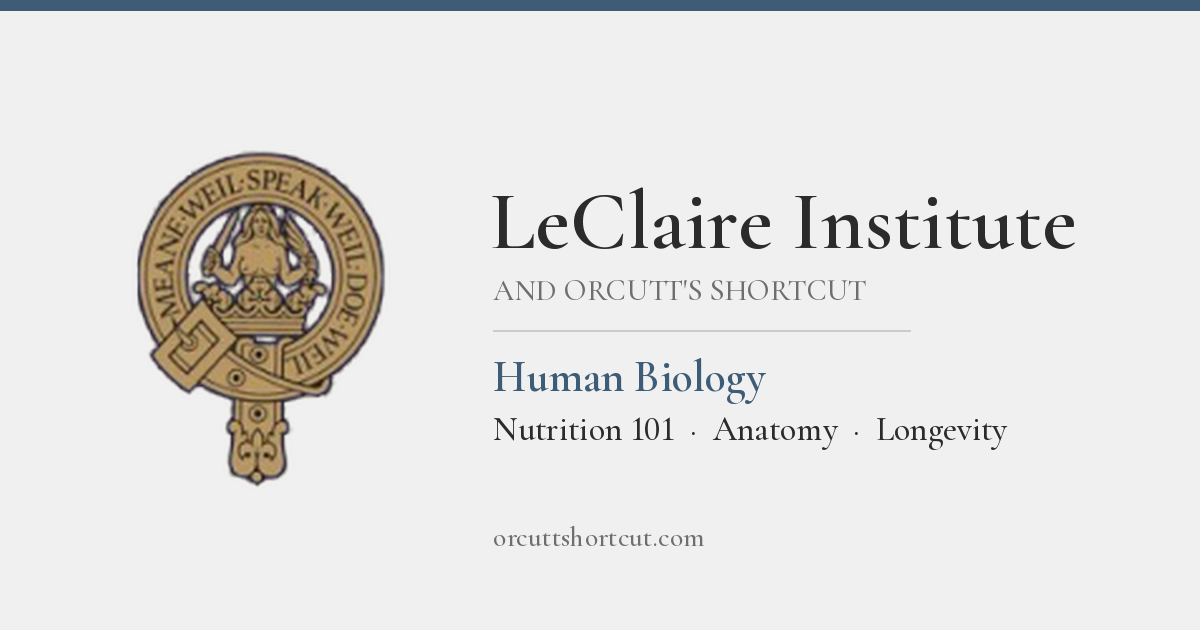
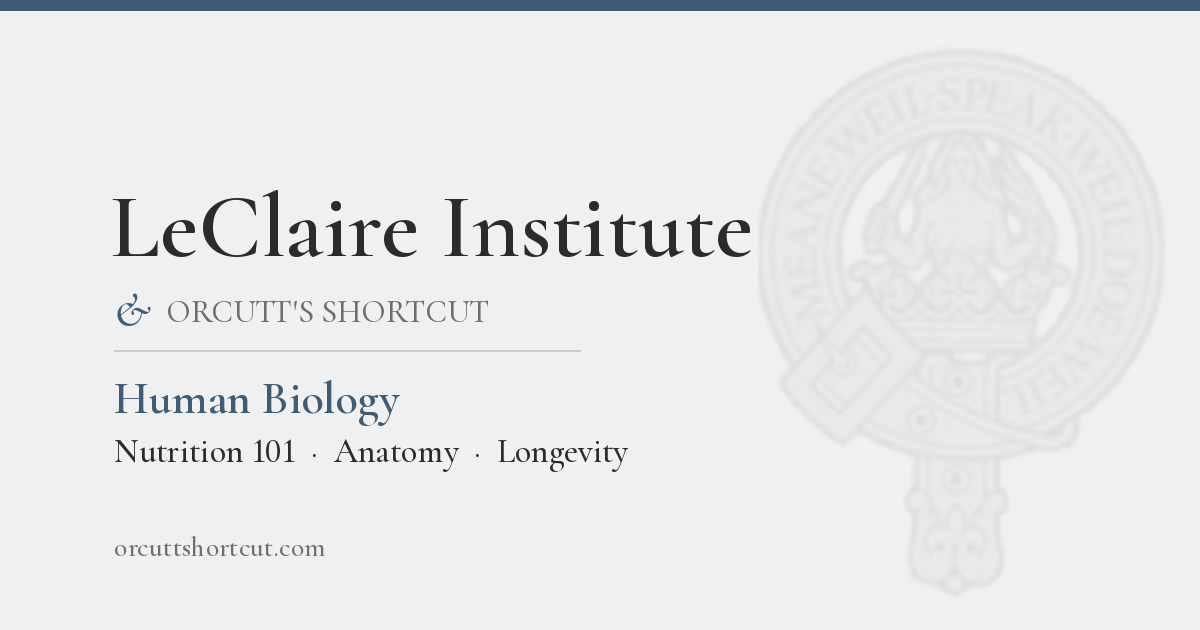
Tagline '& Orcutt's Shortcut' with classic ampersand; subtle crest watermark on share card

diff --git a/index.html b/index.html
@@ -1,4 +1,4 @@
-<!doctype html><html lang="en"><head><meta charset="utf-8"><link rel="icon" href="/favicon.ico" sizes="any"><link rel="icon" type="image/png" href="/favicon-32.png"><link rel="apple-touch-icon" href="/apple-touch-icon.png"><meta name="viewport" content="width=device-width,initial-scale=1"><title>LeClaire Institute · And Orcutt's Shortcut</title><meta name="description" content="Human Biology from the LeClaire Institute: Nutrition 101, Anatomy and Longevity, taught from molecules up."><meta property="og:type" content="website"><meta property="og:site_name" content="LeClaire Institute"><meta property="og:title" content="LeClaire Institute · And Orcutt&#x27;s Shortcut"><meta property="og:description" content="Human Biology from the LeClaire Institute: Nutrition 101, Anatomy and Longevity, taught from molecules up."><meta property="og:image" content="https://orcuttshortcut.com/og.png"><meta property="og:image:width" content="1200"><meta property="og:image:height" content="630"><meta property="og:image:alt" content="LeClaire Institute crest"><meta name="twitter:card" content="summary_large_image"><meta name="twitter:title" content="LeClaire Institute · And Orcutt&#x27;s Shortcut"><meta name="twitter:description" content="Human Biology from the LeClaire Institute: Nutrition 101, Anatomy and Longevity, taught from molecules up."><meta name="twitter:image" content="https://orcuttshortcut.com/og.png"><meta name="theme-color" content="#3E5C76"><style>:root{--hdr:#E4E4E4;--bg:#F0F0F0;--hair:#CBCBCB;--card:#F7F7F5;--text:#2B2B2B;--muted:#6E6E6E;--line:#D9D8D4;--chip:#ECEBE7;--acc:#3E5C76;--acc-soft:#3E5C7614;--mark:#E7DCC3;--vein:.045;--serif:"Cormorant Garamond","Cormorant",Garamond,"EB Garamond",Georgia,"Times New Roman",serif;--sans:ui-sans-serif,system-ui,-apple-system,"Segoe UI",Roboto,"Helvetica Neue",Arial,sans-serif}
+<!doctype html><html lang="en"><head><meta charset="utf-8"><link rel="icon" href="/favicon.ico" sizes="any"><link rel="icon" type="image/png" href="/favicon-32.png"><link rel="apple-touch-icon" href="/apple-touch-icon.png"><meta name="viewport" content="width=device-width,initial-scale=1"><title>LeClaire Institute & Orcutt's Shortcut</title><meta name="description" content="Human Biology from the LeClaire Institute: Nutrition 101, Anatomy and Longevity, taught from molecules up."><meta property="og:type" content="website"><meta property="og:site_name" content="LeClaire Institute"><meta property="og:title" content="LeClaire Institute &amp; Orcutt&#x27;s Shortcut"><meta property="og:description" content="Human Biology from the LeClaire Institute: Nutrition 101, Anatomy and Longevity, taught from molecules up."><meta property="og:image" content="https://orcuttshortcut.com/og.png"><meta property="og:image:width" content="1200"><meta property="og:image:height" content="630"><meta property="og:image:alt" content="LeClaire Institute crest"><meta name="twitter:card" content="summary_large_image"><meta name="twitter:title" content="LeClaire Institute &amp; Orcutt&#x27;s Shortcut"><meta name="twitter:description" content="Human Biology from the LeClaire Institute: Nutrition 101, Anatomy and Longevity, taught from molecules up."><meta name="twitter:image" content="https://orcuttshortcut.com/og.png"><meta name="theme-color" content="#3E5C76"><style>:root{--hdr:#E4E4E4;--bg:#F0F0F0;--hair:#CBCBCB;--card:#F7F7F5;--text:#2B2B2B;--muted:#6E6E6E;--line:#D9D8D4;--chip:#ECEBE7;--acc:#3E5C76;--acc-soft:#3E5C7614;--mark:#E7DCC3;--vein:.045;--serif:"Cormorant Garamond","Cormorant",Garamond,"EB Garamond",Georgia,"Times New Roman",serif;--sans:ui-sans-serif,system-ui,-apple-system,"Segoe UI",Roboto,"Helvetica Neue",Arial,sans-serif}
 [data-theme=dark]{--hdr:#262625;--bg:#1F1F1E;--hair:#3A3936;--card:#2A2A28;--text:#E8E6E1;--muted:#A19E97;--line:#3A3936;--chip:#32322F;--acc:#8FA9C2;--acc-soft:#8FA9C21c;--mark:#5A4F38;--vein:.04}
 *{box-sizing:border-box}html{scroll-behavior:smooth}body{margin:0;background:var(--bg);color:var(--text);font-family:var(--sans);font-size:16px;line-height:1.55;-webkit-font-smoothing:antialiased;transition:background .2s,color .2s}
 a{color:inherit}
@@ -235,5 +235,5 @@ svg.sgd{display:block;width:100%;height:auto;margin:0 auto}
 @media(max-width:600px){.fams .cend.co{left:auto!important;right:-4px}.fams .cend.co.u{transform:translate(0,-100%)!important}.fams .cend.co.d{transform:none!important}.fams .fimg{margin-left:22px}}
 details.bls{margin:8px 0 0}details.bls>summary{cursor:pointer;color:var(--acc);font-size:.95rem;list-style:none;padding:2px 0}details.bls>summary::-webkit-details-marker{display:none}details.bls>summary::before{content:"";display:inline-block;width:6px;height:6px;margin:0 9px 2px 1px;border-right:1.5px solid currentColor;border-bottom:1.5px solid currentColor;transform:rotate(-45deg);transition:transform .15s}details.bls[open]>summary::before{transform:rotate(45deg)}details.bls>summary:hover{text-decoration:underline}.blsub{list-style:none;margin:6px 0 0 14px;padding:0 0 0 12px;border-left:2px solid var(--line)}.blsub li{padding:8px 0 8px;border-bottom:1px solid var(--line)}.blsub li:last-child{border-bottom:0}.blsub .bln{font-size:1.02rem}.blsn{margin:4px 0 0 26px!important;font-size:.85rem;color:var(--muted)}@media(max-width:600px){.blsub{margin-left:4px;padding-left:10px}.blsn{margin-left:14px!important}}
 .f9intro{margin:0 0 14px;font-size:1rem;line-height:1.6;color:var(--text)}.f9intro b{font-family:var(--serif);font-weight:600}
-.ai{color:var(--acc);font-weight:600;letter-spacing:.01em}.brand{display:inline-block;margin-bottom:10px;font-family:var(--serif);font-size:1.25rem;font-weight:500;letter-spacing:.02em;text-decoration:none;color:var(--text)}.brand:hover{color:var(--text)}.brand:hover .ai{text-decoration:underline;text-underline-offset:3px}</style><style>.hero p.tagline{margin:4px 0 0;font-family:var(--serif);font-variant:small-caps;font-size:clamp(1.05rem,2.2vw,1.25rem);letter-spacing:.12em;color:var(--muted)}.course .mn{font-variant-numeric:lining-nums}.course h2 a{text-decoration:none}.course h2 a:hover{color:var(--acc)}.cdesc{margin:10px 0 0 44px;line-height:1.6}.cmeta{margin:8px 0 0 44px;font-size:.72rem;text-transform:uppercase;letter-spacing:.18em;color:var(--muted)}.cmods{list-style:none;margin:12px 0 0 44px;padding:0;display:flex;flex-wrap:wrap;gap:8px}.cmods li{border:1px solid var(--line);border-radius:4px;padding:4px 10px;font-size:.9rem;background:var(--bg)}.cmods li span{font-family:var(--serif);font-variant-numeric:lining-nums;color:var(--acc);margin-right:6px;font-size:1.05rem}.secl{font-family:var(--serif);font-weight:500;font-size:1.5rem;margin:36px 0 10px;padding-top:18px;border-top:1px solid var(--hair);color:var(--muted)}.major{margin:8px 0 0;background:var(--card);border:1px solid var(--line);border-top:3px solid var(--acc);border-radius:8px;padding:20px 22px 8px}.majh{display:flex;align-items:center;gap:12px;flex-wrap:wrap}.majt{font-family:var(--serif);font-weight:500;font-size:2rem;margin:0}.majtag{font-size:.66rem;text-transform:uppercase;letter-spacing:.2em;color:#fff;background:var(--acc);border-radius:3px;padding:3px 9px}.majsub{margin:6px 0 14px;font-size:.72rem;text-transform:uppercase;letter-spacing:.18em;color:var(--muted)}.majc{border-left:2px solid var(--line);padding-left:18px}@media(max-width:600px){.cdesc,.cmeta,.cmods{margin-left:0}.majc{padding-left:10px}}</style></head><body>
-<div class="hero"><div class="in"><button id="theme">Dark</button><nav class="crumbs">Home</nav><h1 class="site">LeCl<span class="ai">ai</span>re Institute</h1><p class="tagline">And Orcutt's Shortcut</p><p>Course catalog. Choose a course to start.</p></div></div><main class="mods"><section class="major" id="human-biology"><div class="majh"><span class="majtag">Major</span><h2 class="majt">Human Biology</h2></div><p class="majsub">Courses in this major</p><div class="majc"><section class="mod course" id="nutrition-101" style="--a:var(--acc)"><div class="mh"><span class="mn">101</span><span class="ico"></span><h2><a href="curriculum/">Nutrition 101</a></h2></div><p class="cdesc">What food is made of, down to molecules and elements: macronutrients, micronutrients and the non-nutrients in whole foods, a final review that reads real labels line by line, and the searchable Food Label Tree of over 1,000 label compounds.</p><p class="cmeta">5 modules · 16 lessons</p><ol class="cmods"><li><span>1</span>Macronutrients</li><li><span>2</span>Micronutrients</li><li><span>3</span>Non-Nutrients</li><li><span>4</span>Final Review</li><li><span>5</span>Food Label Tree</li></ol><a class="les" href="curriculum/">Open the course <span>Nutrition 101 →</span></a></section><section class="mod course" id="anatomy" style="--a:var(--acc)"><div class="mh"><span class="mn">101</span><span class="ico"></span><h2><a href="anatomy/">Anatomy</a></h2></div><p class="cdesc">The human body as a marble statue you can peel back layer by layer: skin, muscles, bones, nerves, organs and circulation. Tap any part to zoom in, then follow each nutrient from your plate to where it is used or stored.</p><p class="cmeta">2 modules · 9 lessons</p><ol class="cmods"><li><span>1</span>The Human Body</li><li><span>2</span>Joints</li></ol><a class="les" href="anatomy/">Open the course <span>Anatomy →</span></a></section><section class="mod course" id="longevity" style="--a:var(--acc)"><div class="mh"><span class="mn">101</span><span class="ico"></span><h2><a href="longevity/">Longevity</a></h2></div><p class="cdesc">How long populations live, and what a low average did and did not mean. Module 1 follows life expectancy at birth in England and the world from the sixteenth century to today, then bridges to the aging papers in the reading room. Module 2 is the mutation theory of aging. Module 3 is telomeres and replicative senescence. Module 4 is free radicals and mitochondria. The course page lists the later theory modules, which are not written yet.</p><p class="cmeta">9 modules · 4 lessons</p><ol class="cmods"><li><span>1</span>Five Hundred Years</li><li><span>2</span>Mutation Theory</li><li><span>3</span>Telomeres</li><li><span>4</span>Free Radicals</li><li><span>5</span>Epigenetic Information</li><li><span>6</span>Evolutionary Trade-offs</li><li><span>7</span>Hyperfunction</li><li><span>8</span>Inflammaging</li><li><span>9</span>Proteostasis</li></ol><a class="les" href="longevity/">Open the course <span>Longevity →</span></a></section></div></section></main><script>const setT=t=>{document.documentElement.dataset.theme=t;theme.textContent=t=='dark'?'Light':'Dark'};let st=null;try{st=localStorage.getItem('theme')}catch(e){}setT(st||(matchMedia('(prefers-color-scheme: dark)').matches?'dark':'light'));theme.onclick=()=>{const t=document.documentElement.dataset.theme=='dark'?'light':'dark';setT(t);try{localStorage.setItem('theme',t)}catch(e){}};</script><script>(function(){var h=location.hash.slice(1);try{h=decodeURIComponent(h)}catch(e){}if(h==="literature"||h==="reading"){location.replace("longevity/#literature");return;}if((h&&!document.getElementById(h))||location.search)location.replace("curriculum/food-label-tree.html"+location.search+location.hash)})()</script></body></html>
+.ai{color:var(--acc);font-weight:600;letter-spacing:.01em}.brand{display:inline-block;margin-bottom:10px;font-family:var(--serif);font-size:1.25rem;font-weight:500;letter-spacing:.02em;text-decoration:none;color:var(--text)}.brand:hover{color:var(--text)}.brand:hover .ai{text-decoration:underline;text-underline-offset:3px}</style><style>.hero p.tagline .amp{font-family:"Cormorant Garamond",Garamond,"EB Garamond",Baskerville,serif;font-style:italic;font-variant:normal;font-size:1.35em;letter-spacing:0;margin-right:.18em;color:var(--acc)}.hero p.tagline{margin:4px 0 0;font-family:var(--serif);font-variant:small-caps;font-size:clamp(1.05rem,2.2vw,1.25rem);letter-spacing:.12em;color:var(--muted)}.course .mn{font-variant-numeric:lining-nums}.course h2 a{text-decoration:none}.course h2 a:hover{color:var(--acc)}.cdesc{margin:10px 0 0 44px;line-height:1.6}.cmeta{margin:8px 0 0 44px;font-size:.72rem;text-transform:uppercase;letter-spacing:.18em;color:var(--muted)}.cmods{list-style:none;margin:12px 0 0 44px;padding:0;display:flex;flex-wrap:wrap;gap:8px}.cmods li{border:1px solid var(--line);border-radius:4px;padding:4px 10px;font-size:.9rem;background:var(--bg)}.cmods li span{font-family:var(--serif);font-variant-numeric:lining-nums;color:var(--acc);margin-right:6px;font-size:1.05rem}.secl{font-family:var(--serif);font-weight:500;font-size:1.5rem;margin:36px 0 10px;padding-top:18px;border-top:1px solid var(--hair);color:var(--muted)}.major{margin:8px 0 0;background:var(--card);border:1px solid var(--line);border-top:3px solid var(--acc);border-radius:8px;padding:20px 22px 8px}.majh{display:flex;align-items:center;gap:12px;flex-wrap:wrap}.majt{font-family:var(--serif);font-weight:500;font-size:2rem;margin:0}.majtag{font-size:.66rem;text-transform:uppercase;letter-spacing:.2em;color:#fff;background:var(--acc);border-radius:3px;padding:3px 9px}.majsub{margin:6px 0 14px;font-size:.72rem;text-transform:uppercase;letter-spacing:.18em;color:var(--muted)}.majc{border-left:2px solid var(--line);padding-left:18px}@media(max-width:600px){.cdesc,.cmeta,.cmods{margin-left:0}.majc{padding-left:10px}}</style></head><body>
+<div class="hero"><div class="in"><button id="theme">Dark</button><nav class="crumbs">Home</nav><h1 class="site">LeCl<span class="ai">ai</span>re Institute</h1><p class="tagline"><span class="amp">&amp;</span> Orcutt's Shortcut</p><p>Course catalog. Choose a course to start.</p></div></div><main class="mods"><section class="major" id="human-biology"><div class="majh"><span class="majtag">Major</span><h2 class="majt">Human Biology</h2></div><p class="majsub">Courses in this major</p><div class="majc"><section class="mod course" id="nutrition-101" style="--a:var(--acc)"><div class="mh"><span class="mn">101</span><span class="ico"></span><h2><a href="curriculum/">Nutrition 101</a></h2></div><p class="cdesc">What food is made of, down to molecules and elements: macronutrients, micronutrients and the non-nutrients in whole foods, a final review that reads real labels line by line, and the searchable Food Label Tree of over 1,000 label compounds.</p><p class="cmeta">5 modules · 16 lessons</p><ol class="cmods"><li><span>1</span>Macronutrients</li><li><span>2</span>Micronutrients</li><li><span>3</span>Non-Nutrients</li><li><span>4</span>Final Review</li><li><span>5</span>Food Label Tree</li></ol><a class="les" href="curriculum/">Open the course <span>Nutrition 101 →</span></a></section><section class="mod course" id="anatomy" style="--a:var(--acc)"><div class="mh"><span class="mn">101</span><span class="ico"></span><h2><a href="anatomy/">Anatomy</a></h2></div><p class="cdesc">The human body as a marble statue you can peel back layer by layer: skin, muscles, bones, nerves, organs and circulation. Tap any part to zoom in, then follow each nutrient from your plate to where it is used or stored.</p><p class="cmeta">2 modules · 9 lessons</p><ol class="cmods"><li><span>1</span>The Human Body</li><li><span>2</span>Joints</li></ol><a class="les" href="anatomy/">Open the course <span>Anatomy →</span></a></section><section class="mod course" id="longevity" style="--a:var(--acc)"><div class="mh"><span class="mn">101</span><span class="ico"></span><h2><a href="longevity/">Longevity</a></h2></div><p class="cdesc">How long populations live, and what a low average did and did not mean. Module 1 follows life expectancy at birth in England and the world from the sixteenth century to today, then bridges to the aging papers in the reading room. Module 2 is the mutation theory of aging. Module 3 is telomeres and replicative senescence. Module 4 is free radicals and mitochondria. The course page lists the later theory modules, which are not written yet.</p><p class="cmeta">9 modules · 4 lessons</p><ol class="cmods"><li><span>1</span>Five Hundred Years</li><li><span>2</span>Mutation Theory</li><li><span>3</span>Telomeres</li><li><span>4</span>Free Radicals</li><li><span>5</span>Epigenetic Information</li><li><span>6</span>Evolutionary Trade-offs</li><li><span>7</span>Hyperfunction</li><li><span>8</span>Inflammaging</li><li><span>9</span>Proteostasis</li></ol><a class="les" href="longevity/">Open the course <span>Longevity →</span></a></section></div></section></main><script>const setT=t=>{document.documentElement.dataset.theme=t;theme.textContent=t=='dark'?'Light':'Dark'};let st=null;try{st=localStorage.getItem('theme')}catch(e){}setT(st||(matchMedia('(prefers-color-scheme: dark)').matches?'dark':'light'));theme.onclick=()=>{const t=document.documentElement.dataset.theme=='dark'?'light':'dark';setT(t);try{localStorage.setItem('theme',t)}catch(e){}};</script><script>(function(){var h=location.hash.slice(1);try{h=decodeURIComponent(h)}catch(e){}if(h==="literature"||h==="reading"){location.replace("longevity/#literature");return;}if((h&&!document.getElementById(h))||location.search)location.replace("curriculum/food-label-tree.html"+location.search+location.hash)})()</script></body></html>

diff --git a/gen/site_pages.py b/gen/site_pages.py
@@ -38,7 +38,7 @@ def _course_card(c):
 _cards=('<section class="major" id="human-biology"><div class="majh"><span class="majtag">Major</span><h2 class="majt">Human Biology</h2></div>'+'<p class="majsub">Courses in this major</p><div class="majc">'+''.join(_course_card(c) for c in COURSES)+'</div></section>')
 # Literature is part of LONG 101 (see gen/longevity.py). It is not a home-page section and not part of Anatomy.
 # Old home anchors #literature and #reading must not fall through to the food-label tree.
-_HOME_CSS=('<style>.hero p.tagline{margin:4px 0 0;font-family:var(--serif);font-variant:small-caps;font-size:clamp(1.05rem,2.2vw,1.25rem);letter-spacing:.12em;color:var(--muted)}.course .mn{font-variant-numeric:lining-nums}.course h2 a{text-decoration:none}.course h2 a:hover{color:var(--acc)}.cdesc{margin:10px 0 0 44px;line-height:1.6}'
+_HOME_CSS=('<style>.hero p.tagline .amp{font-family:"Cormorant Garamond",Garamond,"EB Garamond",Baskerville,serif;font-style:italic;font-variant:normal;font-size:1.35em;letter-spacing:0;margin-right:.18em;color:var(--acc)}.hero p.tagline{margin:4px 0 0;font-family:var(--serif);font-variant:small-caps;font-size:clamp(1.05rem,2.2vw,1.25rem);letter-spacing:.12em;color:var(--muted)}.course .mn{font-variant-numeric:lining-nums}.course h2 a{text-decoration:none}.course h2 a:hover{color:var(--acc)}.cdesc{margin:10px 0 0 44px;line-height:1.6}'
            '.cmeta{margin:8px 0 0 44px;font-size:.72rem;text-transform:uppercase;letter-spacing:.18em;color:var(--muted)}'
            '.cmods{list-style:none;margin:12px 0 0 44px;padding:0;display:flex;flex-wrap:wrap;gap:8px}.cmods li{border:1px solid var(--line);border-radius:4px;padding:4px 10px;font-size:.9rem;background:var(--bg)}'
            '.cmods li span{font-family:var(--serif);font-variant-numeric:lining-nums;color:var(--acc);margin-right:6px;font-size:1.05rem}'
@@ -48,7 +48,7 @@ _HOME_CSS=('<style>.hero p.tagline{margin:4px 0 0;font-family:var(--serif);font-
 _FWD=('<script>(function(){var h=location.hash.slice(1);try{h=decodeURIComponent(h)}catch(e){}'
       'if(h==="literature"||h==="reading"){location.replace("longevity/#literature");return;}'
       'if((h&&!document.getElementById(h))||location.search)location.replace("curriculum/food-label-tree.html"+location.search+location.hash)})()</script>')
-_home=page(f'{UNIVERSITY_NAME} · {TAGLINE}',f'<nav class="crumbs">Home</nav><h1 class="site">{brand_html()}</h1>'+(f'<p class="tagline">{TAGLINE}</p>' if TAGLINE else '')+'<p>Course catalog. Choose a course to start.</p>',
+_home=page(f'{UNIVERSITY_NAME} {TAGLINE}',f'<nav class="crumbs">Home</nav><h1 class="site">{brand_html()}</h1>'+(f'<p class="tagline">{TAGLINE.replace("&","<span class=\"amp\">&amp;</span>",1)}</p>' if TAGLINE else '')+'<p>Course catalog. Choose a course to start.</p>',
            f'<main class="mods">{_cards}</main>',extra=_FWD,head=_HOME_CSS,brand=None)
 open(os.path.join(ROOT,'index.html'),'w',encoding='utf-8').write(_home)
 print('home:',len(COURSES),'course(s); tree page: prev',_P,'next',_N)

diff --git a/gen/site.py b/gen/site.py
@@ -3,7 +3,7 @@
 UNIVERSITY_NAME = "LeClaire Institute"
 BRAND_EMPHASIS = "ai"  # letters of the name shown in the accent colour (same case as in the name)
 # Tagline under the site title on the home page; "" hides it.
-TAGLINE = "And Orcutt's Shortcut"
+TAGLINE = "& Orcutt's Shortcut"
 def brand_html(name=None):
     """The name as page HTML with BRAND_EMPHASIS emphasized (accent colour, slightly heavier); plain text is used in <title>."""
     name = name or UNIVERSITY_NAME

diff --git a/README.md b/README.md
@@ -3,7 +3,7 @@ A searchable, collapsible tree of 1,103 compounds and items found on food labels
 Live: https://orcuttshortcut.com/curriculum/food-label-tree.html (Module 5 of Nutrition 101). The site root is now a course catalog.
 
 ## Site layout
-- `index.html` (site root): course catalog, generated from `gen/site.py` (`UNIVERSITY_NAME` = "LeClaire Institute", the one place to rename the site, shown with "ai" in the accent colour (`BRAND_EMPHASIS`) via `brand_html()` in the header of every page; `TAGLINE` = "And Orcutt's Shortcut", shown under the name on the home page; and the `COURSES` list; add a dict to add a course) by `gen/site_pages.py`.
+- `index.html` (site root): course catalog, generated from `gen/site.py` (`UNIVERSITY_NAME` = "LeClaire Institute", the one place to rename the site, shown with "ai" in the accent colour (`BRAND_EMPHASIS`) via `brand_html()` in the header of every page; `TAGLINE` = "& Orcutt's Shortcut", shown under the name on the home page; and the `COURSES` list; add a dict to add a course) by `gen/site_pages.py`.
 - `curriculum/`: the Nutrition 101 course (index, lessons, scripts). Lesson URLs are unchanged.
 - `curriculum/food-label-tree.html`: the tree app (Module 5), built from `gen/tree_page.src.html` with the course header and prev/next pager; it loads `../data.js`, so `data.js`/`data.json` stay at the root. A hash or query arriving at the root that is not a home-page anchor is forwarded to this page unchanged.
 - Everything is rebuilt by `python3 gen/curriculum.py` (after `gen/gen.py && build.py` when the tree data changes).
